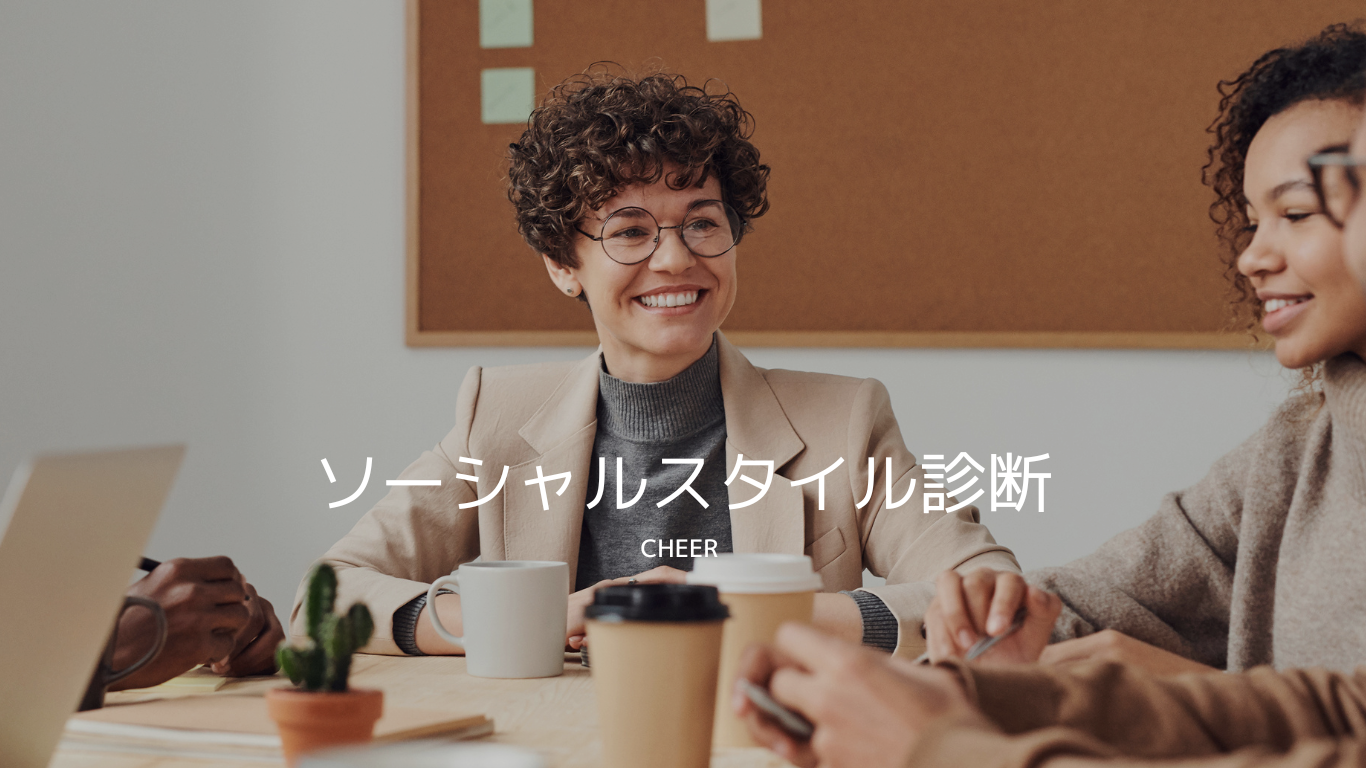
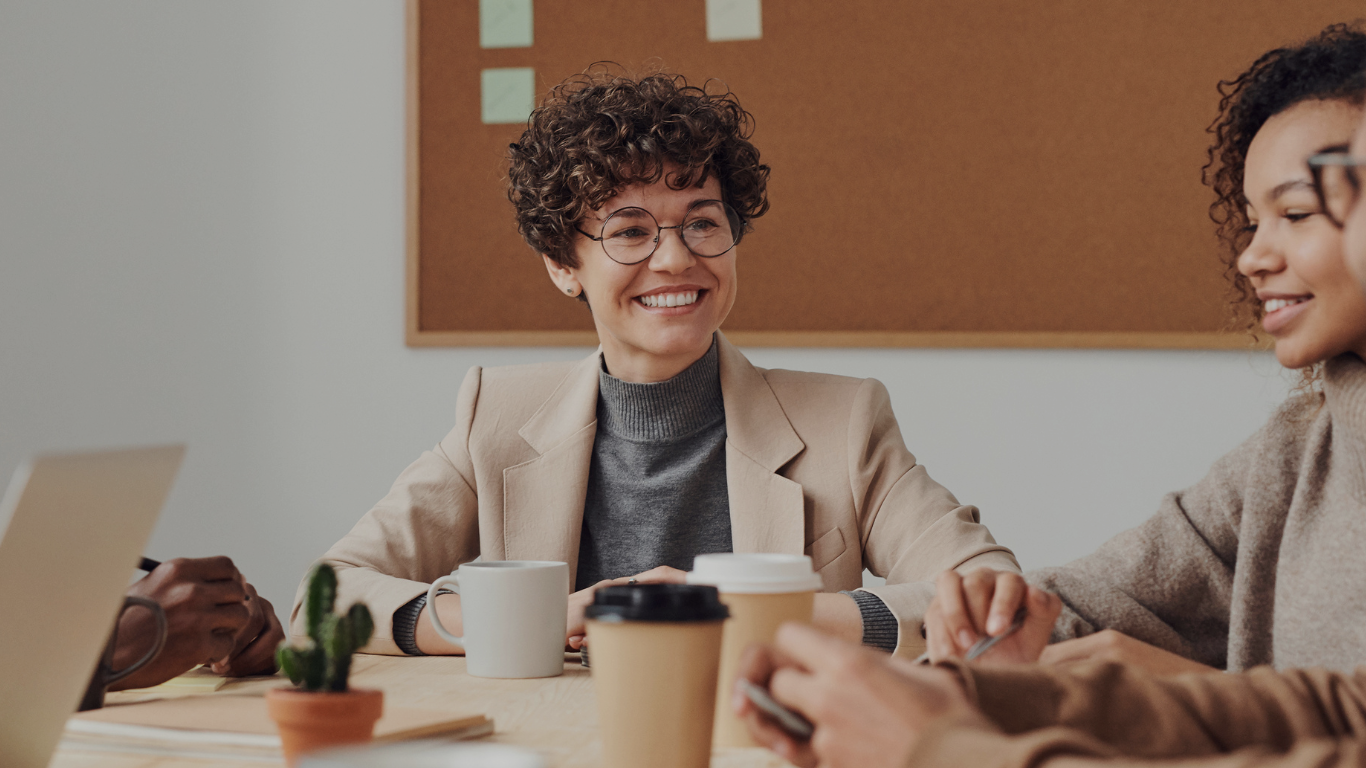
topページTOP部分のcss改修

Changed region(s): [[0.2152, 0.5938, 0.7687, 0.6875], [0.4612, 0.6875, 0.5227, 0.75]]

diff --git a/frontend/web-front/src/pages/TopPage/index.css b/frontend/web-front/src/pages/TopPage/index.css
@@ -1,25 +1,69 @@
+/* tmp_header */
+header {
+  width: 100%;
+  height: 70px;
+  background-color: #DF7919;
+  position: fixed;
+  /* margin-bottom: 70px; */
+  z-index: 1;
+}
+
 .App {
   background-color: #F6F2E8;
-  height: 5500px;
   width: 100%;
 }
 
-.backImg {
+.Top {
   background: url('../../img/ソーシャルスタイル診断_top.png');
   position: relative;
-  background-size: 100% 900px;
+  background-size: cover;
+  background-position: center;
   background-repeat: no-repeat;
   border-radius: 0px 0px 200px 200px;
-  height: 900px;
+  width: 100%;
+  height: 100vh;
 }
 
 .startButton-1 {
   position: absolute;
-  left: 35%;
-  top: 730px;
+  top: 80%;
+  left: 50%;
+  -ms-transform: translate(-50%,-50%);
+  -webkit-transform: translate(-50%,-50%);
+  transform: translate(-50%,-50%);
 }
 
-.explanation {
+.Top_title {
+  position: absolute;
+  color: #fff;
+  width: 100%;
+  top: 60%;
+  left: 50%;
+  -ms-transform: translate(-50%,-50%);
+  -webkit-transform: translate(-50%,-50%);
+  transform: translate(-50%,-50%);
+}
+
+.Top_title h1{
+  font-size: 4em;
+}
+
+.Top_title {
+  text-align: center;
+}
+
+@media screen and (max-width: 800px) {
+  .Top {
+    border-radius: 0px;
+  }
+  .Top_title {
+    font-size: 0.6em;
+  }
+}
+
+
+
+/* .explanation {
   position: absolute;
   width: 800px;
   height: 630px;
@@ -35,9 +79,9 @@
   padding-left: 20px;
   color: #000000;
   word-wrap: break-word;
-}
+} */
 
-.emphasis {
+/* .emphasis {
   color: #DF7919;
   font-size: 40px;
   margin-top: 10px;
@@ -238,4 +282,4 @@
   bottom: 22.79%;
   clip-path: polygon(0 100%, 50% 0, 100% 100%);
   background: #FFFFFF;
-}
+} */

diff --git a/frontend/web-front/src/pages/TopPage/index.jsx b/frontend/web-front/src/pages/TopPage/index.jsx
@@ -11,10 +11,14 @@ const TopPage = () => {
   }
   return (
     <>
-      <div className="App">
-        <p>Header Component!!</p>
 
-        <div className='backImg'>
+      <div className="App">
+      <header></header>
+        <div className='Top'>
+          <div className="Top_title">
+            <h1>ソーシャルスタイル診断</h1>
+          </div>
+          
           <div className='startButton-1'>
             <StartButton onClick={goNextPage} />
           </div>
@@ -77,9 +81,10 @@ const TopPage = () => {
         <div className='startButton-3'>
           <StartButton onClick={goNextPage} />
         </div>
-
+        
+        <Footer />
       </div>
-      <Footer />
+      
     </>
   );
 }

diff --git a/frontend/web-front/src/components/StartButton/index.css b/frontend/web-front/src/components/StartButton/index.css
@@ -1,17 +1,16 @@
 .button {
-  position: absolute;
+  border: 0;
   background-color: #DF7919;
   color: #FFFFFF;
-  width: 500px;
-  height: 120px;
+  width: 325px;
+  height: 78px;
   filter: drop-shadow(0px 4px 4px rgba(0, 0, 0, 0.25));
-  font-family: 'Inter';
-  font-style: normal;
-  font-weight: 400;
-  font-size: 43px;
-  line-height: 44px;
   display: flex;
-  align-items: center;
-  padding-left: 90px;
   border-radius: 20px;
+  align-items: center;
+}
+
+.button p{
+  font-size: 1.7em;
+  width: 100%;
 }

diff --git a/frontend/web-front/src/components/StartButton/index.jsx b/frontend/web-front/src/components/StartButton/index.jsx
@@ -5,7 +5,9 @@ const StartButton = ({ onClick }) => {
   return (
     <button
       className="button"
-      onClick={onClick}>今すぐ診断する</button>
+      onClick={onClick}>
+      <p className="button_txt">今すぐ診断する</p>
+    </button>
   );
 };
 

diff --git a/frontend/web-front/src/index.css b/frontend/web-front/src/index.css
@@ -1,5 +1,6 @@
 body {
   margin: 0;
+  overflow-x: hidden;
   font-family: -apple-system, BlinkMacSystemFont, 'Segoe UI', 'Roboto', 'Oxygen',
     'Ubuntu', 'Cantarell', 'Fira Sans', 'Droid Sans', 'Helvetica Neue',
     sans-serif;

diff --git a/frontend/web-front/src/components/Footer/index.css b/frontend/web-front/src/components/Footer/index.css
@@ -1,7 +1,6 @@
 footer{
 	width: 100%;
 	height: 100px;
-	margin-top: 40px;
 	background-color: #DF7919;
 }
 .Cheerlogo a{
